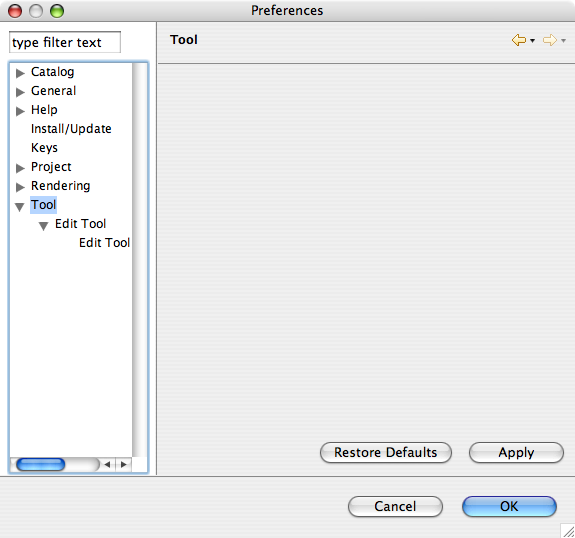
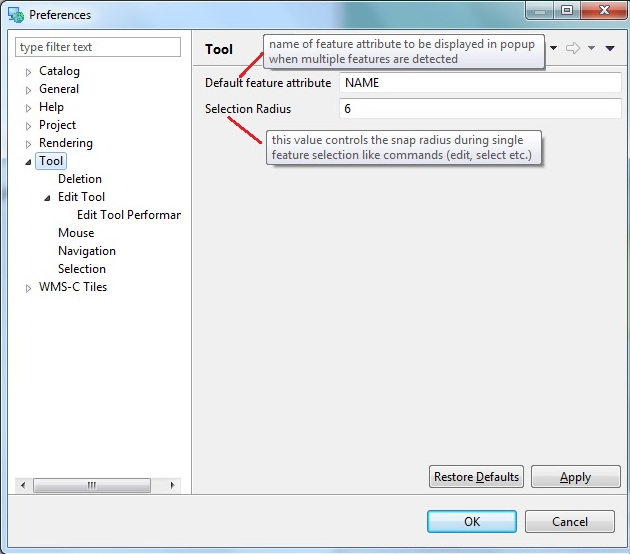
update documentation related to modal tool improvements

Changed region(s): [[0.0, 0.0, 1.0, 1.0], [0.3843, 0.2379, 0.887, 0.3271], [0.5913, 0.9219, 0.6209, 0.9517]]

diff --git a/docs/user/en/reference/Tool Preferences.rst b/docs/user/en/reference/Tool Preferences.rst
@@ -5,10 +5,22 @@ Tool Preferences
    :align: center
    :alt:
 
+Available Preferences
+~~~~~~~~~~~~~~~~~~~~~
 
+-  default feature attribute - name of feature attribute to be displayed in popup when multiple features are detected (case insensitive)
+
+-  selection radius - controls the snap radius (in pixel) during single feature selection like commands (edit, select etc.). During mouse click
+   on the map all features found within this radius will be appear in an popup (using the default feature attribute mentioned above) for the user 
+   to select from (see figure below)
+	
+	|image0| 
+
+	
 .. toctree::
    :maxdepth: 1
 
+   Deletion Preferences
    Edit Tool Preferences
    Edit Tool Performance Preferences
 
@@ -18,6 +30,8 @@ Tool Preferences
 
 .. Child Preference Pages
 .. ~~~~~~~~~~~~~~~~~~~~~~
+
+.. :doc:`Deletion Preferences`
 
 .. :doc:`Edit Tool Preferences`
 
@@ -30,4 +44,4 @@ Tool Preferences
 
 :doc:`Rendering Preferences`
 
-
+.. |image0| image:: /images/tool_preferences/selection_with_popup.gif

diff --git a/docs/user/en/reference/Deletion Preferences.rst b/docs/user/en/reference/Deletion Preferences.rst
@@ -1,0 +1,26 @@
+Deletion Preferences
+=====================
+
+.. figure:: /images/deletion_preferences/deletionpreferences.png
+   :align: center
+   :alt:
+
+Available Preferences
+~~~~~~~~~~~~~~~~~~~~~
+
+-  delete radius - Declares how big (in pixel) the selection radius will be during delete operations. Default to 6 if not set.
+
+-  confirm delete - if checked then when a feature is selected for deletion by the Delete Feature Tool a confirmation
+   popup will occur
+
+
+**Related reference**
+
+:doc:`/tasks/Delete Tool`
+
+
+Peers
+~~~~~
+
+:doc:`Edit Tool Preferences`
+
